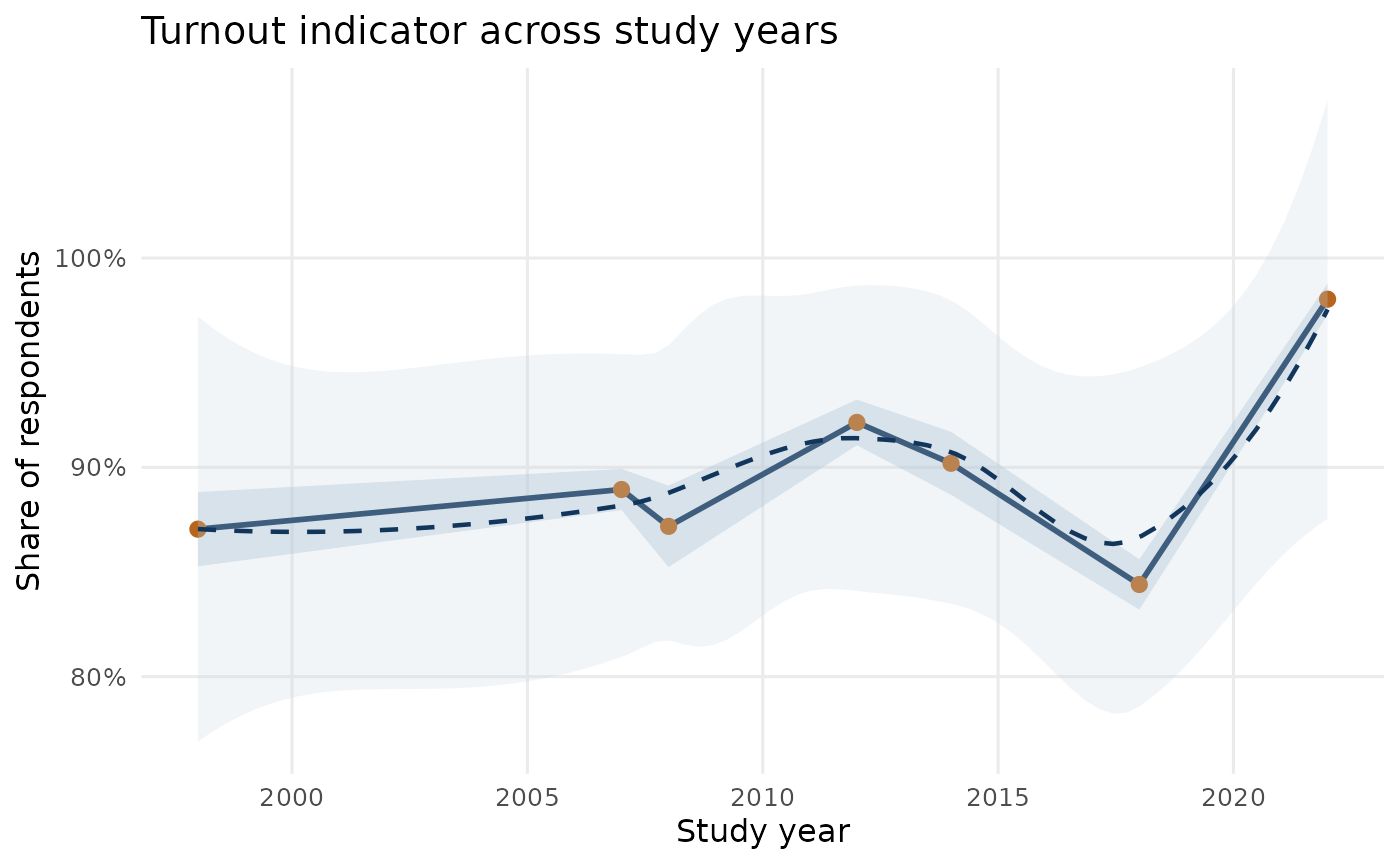
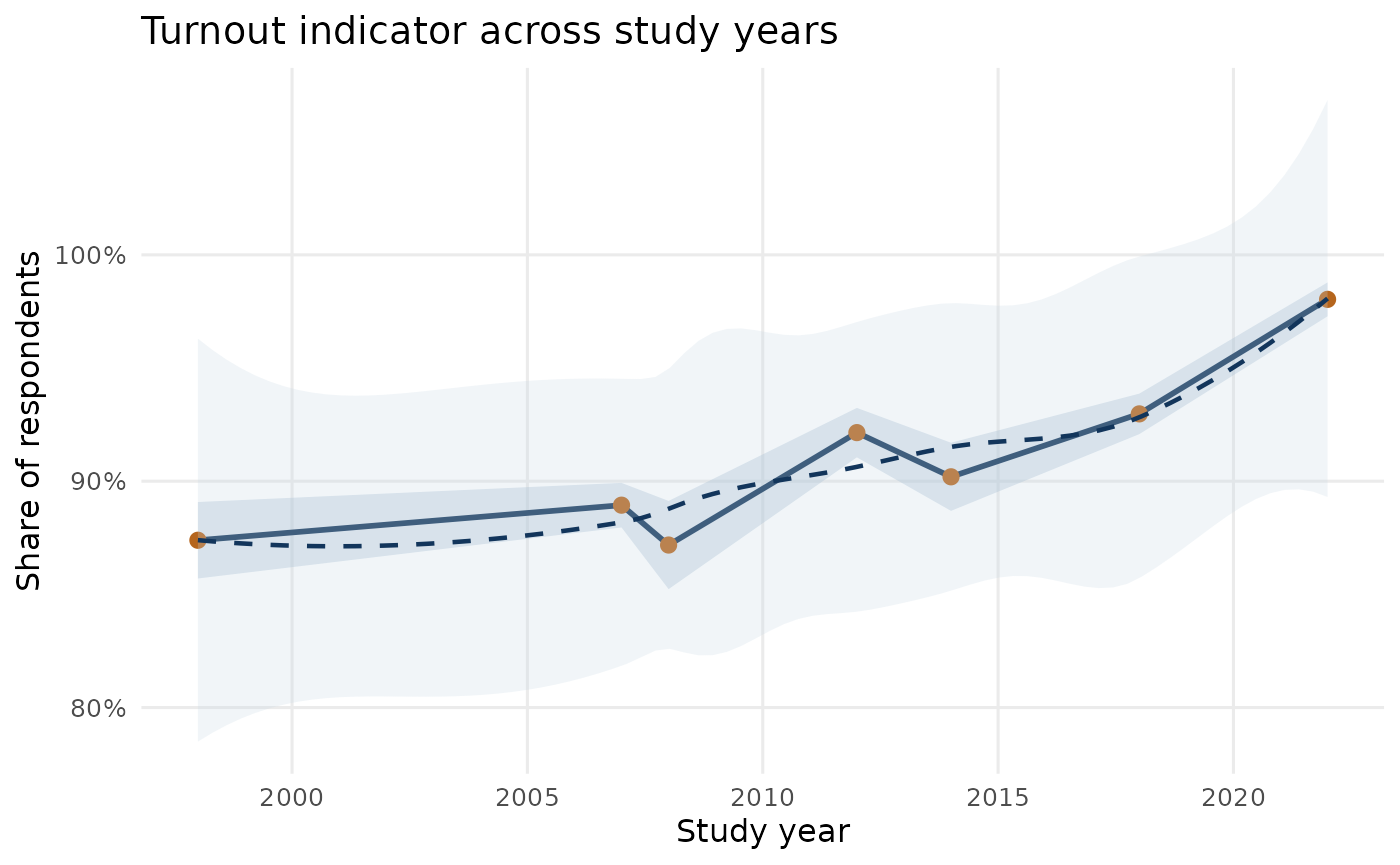
deploy: aa839d9c367eaa34c26e7fe0cb6b3c3e7e0e5da8

diff --git a/index.html b/index.html
@@ -180,7 +180,7 @@
 </li>
 <li>demographics: <code>year_of_birth</code>, <code>age</code>, <code>age_group</code>, <code>gender</code>, <code>education</code>, <code>language</code>, <code>province_territory</code>
 </li>
-<li>political variables: <code>turnout</code>, <code>vote_choice</code>, <code>vote_choice_text</code>, <code>party_best</code>, <code>party_lean</code>, <code>ideology</code>, <code>political_interest</code>, <code>sovereignty_support</code>
+<li>political variables: <code>turnout</code>, <code>vote_choice</code>, <code>vote_choice_text</code>, <code>party_best</code>, <code>party_lean</code>, <code>ideology</code>, <code>political_interest</code>, <code>sovereignty_support</code>, <code>sovereignty</code>
 </li>
 <li>additional fields where available: <code>citizenship</code>, <code>born_canada</code>, <code>income</code>, <code>religion</code>, <code>federal_pid</code>, <code>provincial_pid</code>, <code>survey_weight</code>
 </li>

diff --git a/articles/analysis-descriptive.html b/articles/analysis-descriptive.html
@@ -274,9 +274,9 @@
 <tr class="odd">
 <td align="right">1998</td>
 <td align="right">1483</td>
-<td align="right">1374</td>
-<td align="right">87.0</td>
-<td align="left">85.3 to 88.8</td>
+<td align="right">1483</td>
+<td align="right">87.4</td>
+<td align="left">85.7 to 89.1</td>
 </tr>
 <tr class="even">
 <td align="right">2007</td>
@@ -309,9 +309,9 @@
 <tr class="even">
 <td align="right">2018</td>
 <td align="right">4322</td>
-<td align="right">3481</td>
-<td align="right">84.4</td>
-<td align="left">83.2 to 85.6</td>
+<td align="right">3131</td>
+<td align="right">93.0</td>
+<td align="left">92.1 to 93.9</td>
 </tr>
 <tr class="odd">
 <td align="right">2022</td>

diff --git a/articles/fr-analyse-descriptive.html b/articles/fr-analyse-descriptive.html
@@ -270,9 +270,9 @@
 <tr class="odd">
 <td align="right">1998</td>
 <td align="right">1483</td>
-<td align="right">1374</td>
-<td align="right">87.0</td>
-<td align="left">85.3 a 88.8</td>
+<td align="right">1483</td>
+<td align="right">87.4</td>
+<td align="left">85.7 a 89.1</td>
 </tr>
 <tr class="even">
 <td align="right">2007</td>
@@ -305,9 +305,9 @@
 <tr class="even">
 <td align="right">2018</td>
 <td align="right">4322</td>
-<td align="right">3481</td>
-<td align="right">84.4</td>
-<td align="left">83.2 a 85.6</td>
+<td align="right">3131</td>
+<td align="right">93.0</td>
+<td align="left">92.1 a 93.9</td>
 </tr>
 <tr class="odd">
 <td align="right">2022</td>

diff --git a/articles/fr-donnees-fusionnees.html b/articles/fr-donnees-fusionnees.html
@@ -144,7 +144,8 @@
 <li>variables politiques : <code>turnout</code>,
 <code>vote_choice</code>, <code>vote_choice_text</code>,
 <code>party_best</code>, <code>party_lean</code>, <code>ideology</code>,
-<code>political_interest</code>, <code>sovereignty_support</code>
+<code>political_interest</code>, <code>sovereignty_support</code>,
+<code>sovereignty</code>
 </li>
 <li>champs additionnels (si disponibles) : <code>citizenship</code>,
 <code>born_canada</code>, <code>income</code>, <code>religion</code>,

diff --git a/articles/merged-dataset.html b/articles/merged-dataset.html
@@ -143,7 +143,8 @@
 <li>political variables: <code>turnout</code>, <code>vote_choice</code>,
 <code>vote_choice_text</code>, <code>party_best</code>,
 <code>party_lean</code>, <code>ideology</code>,
-<code>political_interest</code>, <code>sovereignty_support</code>
+<code>political_interest</code>, <code>sovereignty_support</code>,
+<code>sovereignty</code>
 </li>
 <li>additional fields where available: <code>citizenship</code>,
 <code>born_canada</code>, <code>income</code>, <code>religion</code>,

diff --git a/articles/fr-analyse-descriptive.md b/articles/fr-analyse-descriptive.md
@@ -40,12 +40,12 @@ l'année.](fr-analyse-descriptive_files/figure-html/unnamed-chunk-6-1.png)
 
 | Annee d’etude | N repondants | N avec item participation | Taux de participation (%) | IC 95% (%)  |
 |--------------:|-------------:|--------------------------:|--------------------------:|:------------|
-|          1998 |         1483 |                      1374 |                      87.0 | 85.3 a 88.8 |
+|          1998 |         1483 |                      1483 |                      87.4 | 85.7 a 89.1 |
 |          2007 |         4237 |                      3897 |                      88.9 | 88.0 a 89.9 |
 |          2008 |         1151 |                      1131 |                      87.2 | 85.2 a 89.1 |
 |          2012 |         2349 |                      2330 |                      92.1 | 91.1 a 93.2 |
 |          2014 |         1517 |                      1499 |                      90.2 | 88.7 a 91.7 |
-|          2018 |         4322 |                      3481 |                      84.4 | 83.2 a 85.6 |
+|          2018 |         4322 |                      3131 |                      93.0 | 92.1 a 93.9 |
 |          2022 |         1521 |                      1322 |                      98.0 | 97.3 a 98.8 |
 
 Indicateur de participation par année

diff --git a/articles/analysis-descriptive.md b/articles/analysis-descriptive.md
@@ -41,12 +41,12 @@ years.](analysis-descriptive_files/figure-html/unnamed-chunk-6-1.png)
 
 | Study year | N respondents | N with turnout item | Turnout rate (%) | 95% CI (%)   |
 |-----------:|--------------:|--------------------:|-----------------:|:-------------|
-|       1998 |          1483 |                1374 |             87.0 | 85.3 to 88.8 |
+|       1998 |          1483 |                1483 |             87.4 | 85.7 to 89.1 |
 |       2007 |          4237 |                3897 |             88.9 | 88.0 to 89.9 |
 |       2008 |          1151 |                1131 |             87.2 | 85.2 to 89.1 |
 |       2012 |          2349 |                2330 |             92.1 | 91.1 to 93.2 |
 |       2014 |          1517 |                1499 |             90.2 | 88.7 to 91.7 |
-|       2018 |          4322 |                3481 |             84.4 | 83.2 to 85.6 |
+|       2018 |          4322 |                3131 |             93.0 | 92.1 to 93.9 |
 |       2022 |          1521 |                1322 |             98.0 | 97.3 to 98.8 |
 
 Turnout indicator by year

diff --git a/articles/fr-donnees-fusionnees.md b/articles/fr-donnees-fusionnees.md
@@ -24,7 +24,7 @@ Le fichier fusionné inclut notamment :
   `gender`, `education`, `language`, `province_territory`
 - variables politiques : `turnout`, `vote_choice`, `vote_choice_text`,
   `party_best`, `party_lean`, `ideology`, `political_interest`,
-  `sovereignty_support`
+  `sovereignty_support`, `sovereignty`
 - champs additionnels (si disponibles) : `citizenship`, `born_canada`,
   `income`, `religion`, `federal_pid`, `provincial_pid`, `survey_weight`
 

diff --git a/articles/merged-dataset.md b/articles/merged-dataset.md
@@ -24,7 +24,7 @@ The merged data includes cross-study fields such as:
   `education`, `language`, `province_territory`
 - political variables: `turnout`, `vote_choice`, `vote_choice_text`,
   `party_best`, `party_lean`, `ideology`, `political_interest`,
-  `sovereignty_support`
+  `sovereignty_support`, `sovereignty`
 - additional fields where available: `citizenship`, `born_canada`,
   `income`, `religion`, `federal_pid`, `provincial_pid`, `survey_weight`
 

diff --git a/index.md b/index.md
@@ -74,7 +74,7 @@ What it harmonizes:
   `education`, `language`, `province_territory`
 - political variables: `turnout`, `vote_choice`, `vote_choice_text`,
   `party_best`, `party_lean`, `ideology`, `political_interest`,
-  `sovereignty_support`
+  `sovereignty_support`, `sovereignty`
 - additional fields where available: `citizenship`, `born_canada`,
   `income`, `religion`, `federal_pid`, `provincial_pid`, `survey_weight`
 
